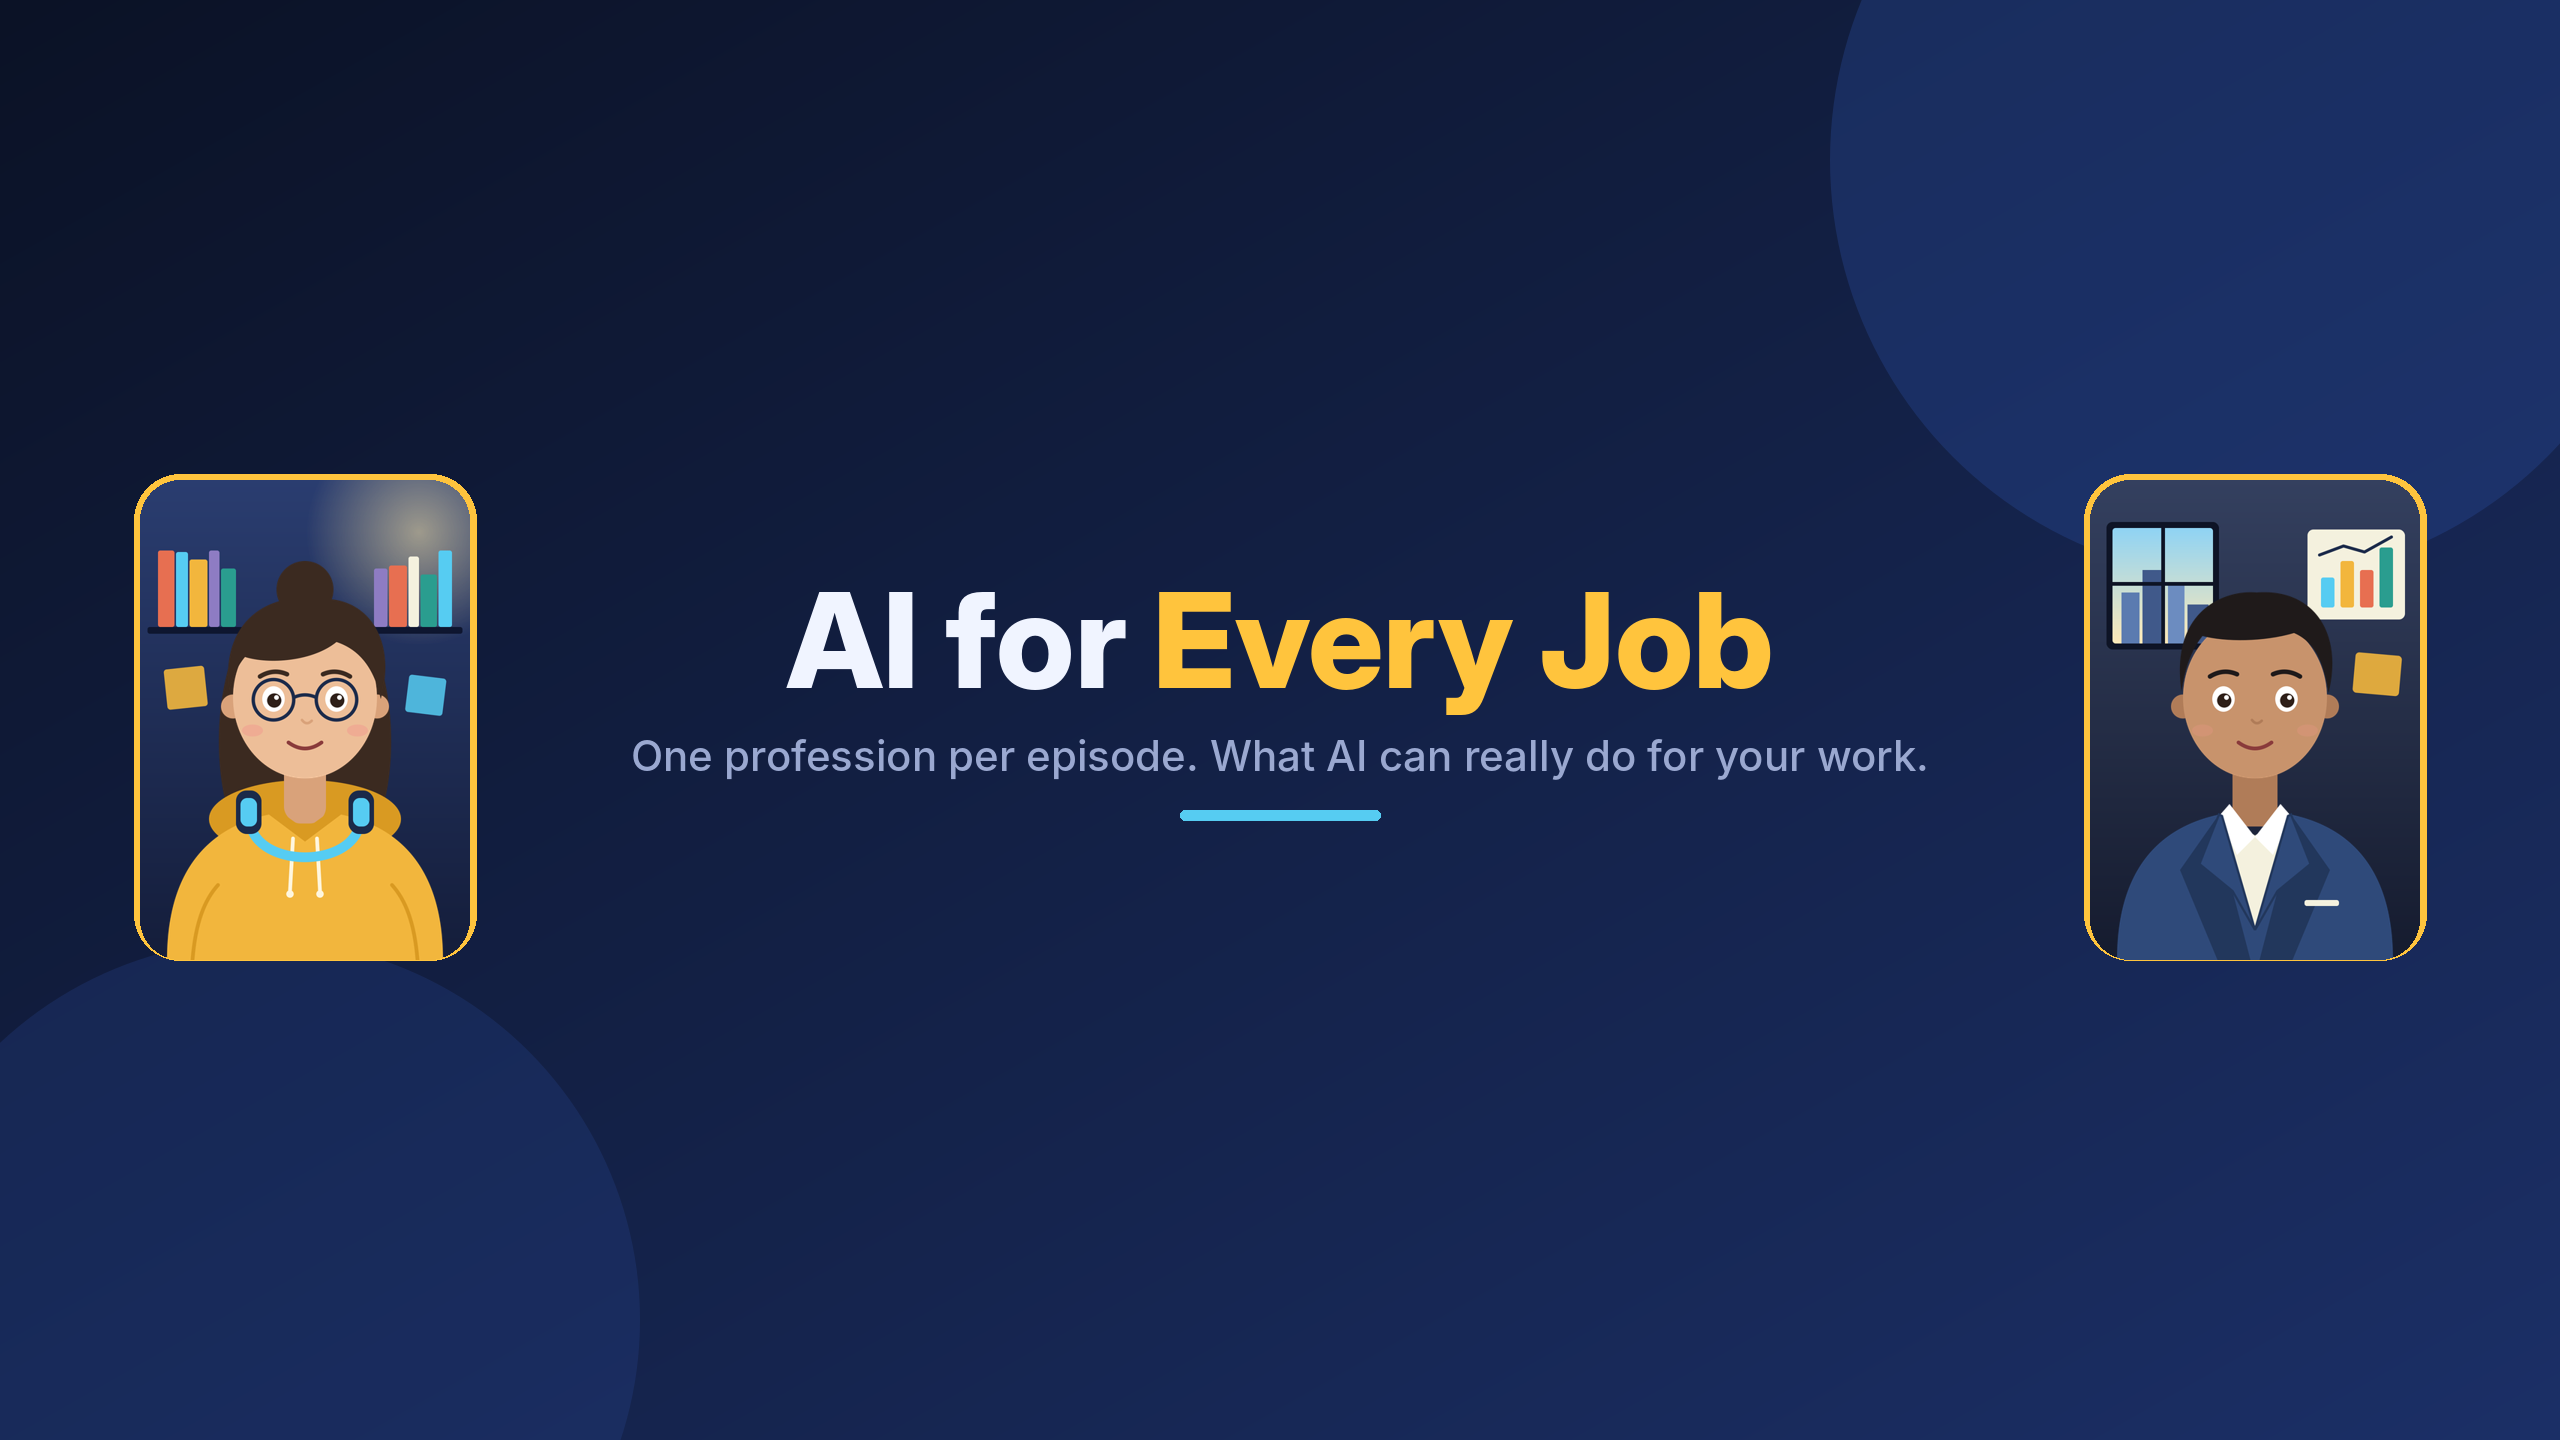
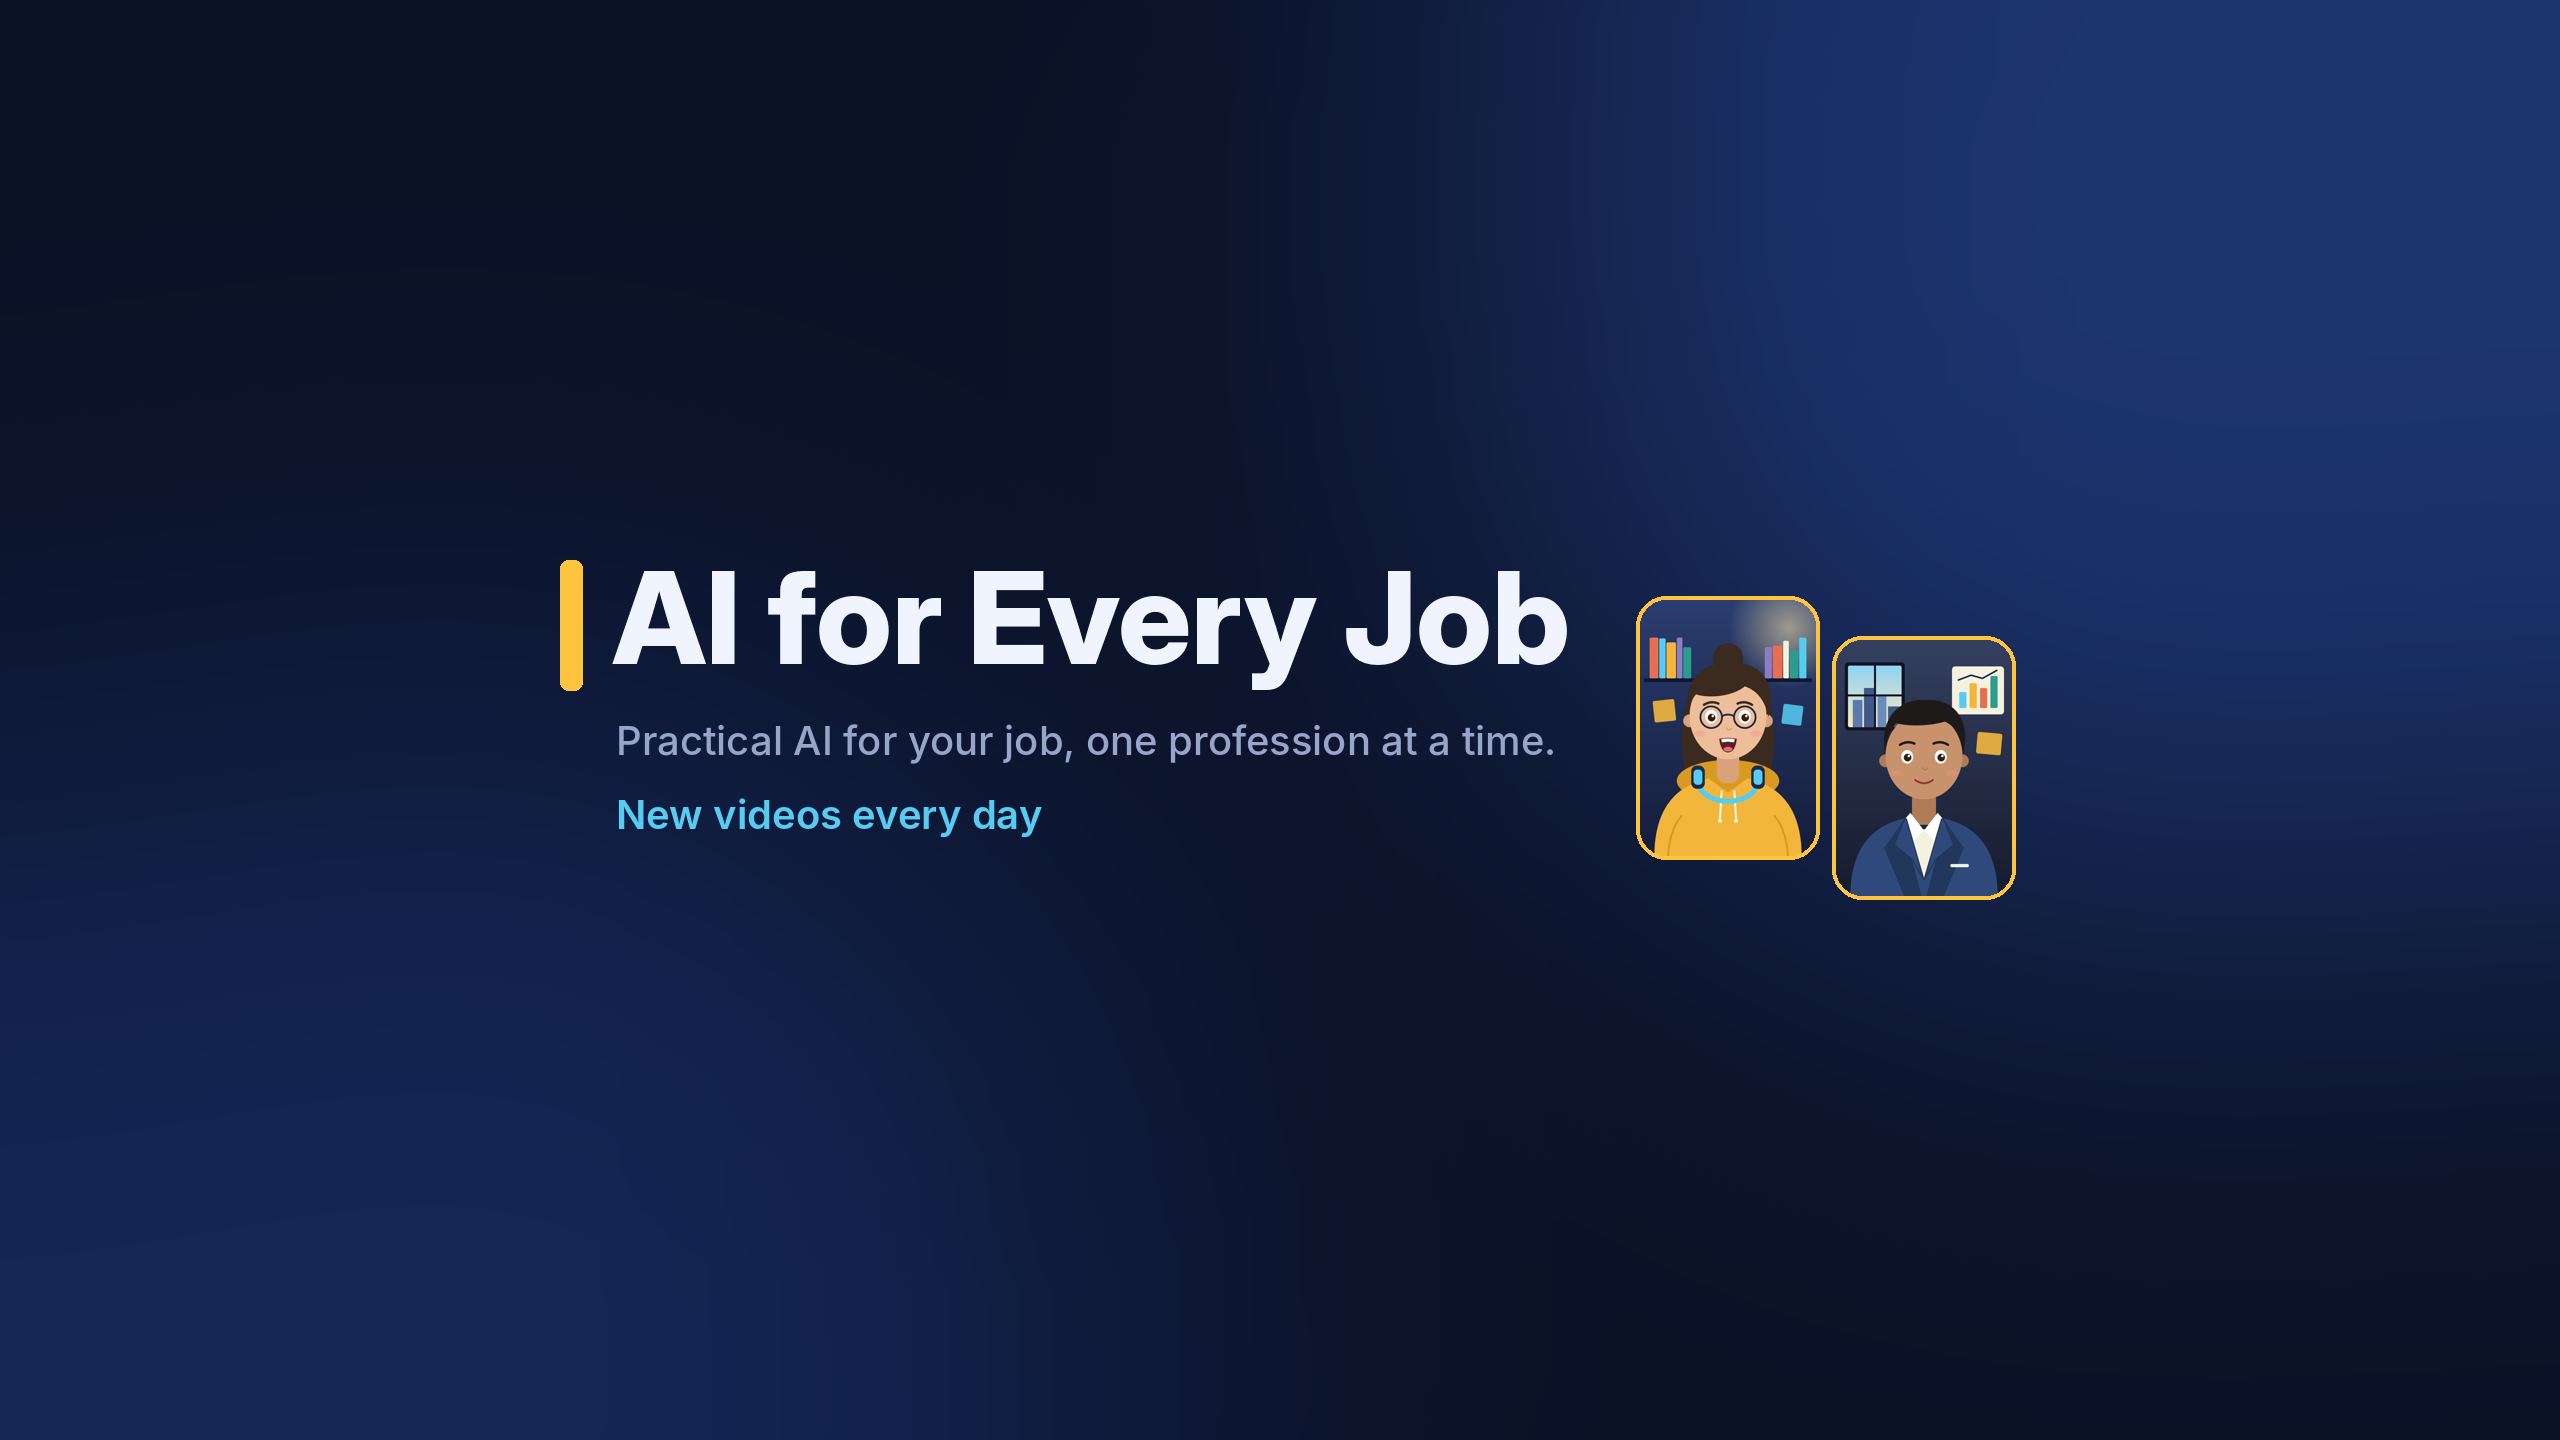
Add channel branding; switch runbook to continuous hourly production with queue claiming
Claude-Session: https://claude.ai/code/session_01NgwzyYEjavnvdf3Qpu6fKy

diff --git a/branding/make_branding.py b/branding/make_branding.py
@@ -1,0 +1,37 @@
+"""Draws the channel profile photo (800x800) and banner (2560x1440, YouTube safe area 1546x423 centred)."""
+import sys, os
+sys.path.insert(0, os.path.join(os.path.dirname(os.path.abspath(__file__)), "..", "pipeline"))
+from PIL import Image, ImageDraw, ImageFont, ImageFilter
+from character import Presenter, PRESENTERS
+import numpy as np
+OUT = os.path.dirname(os.path.abspath(__file__))
+F = "/usr/share/fonts/opentype/inter/"
+def font(n, s): return ImageFont.truetype(F + n + ".otf", s)
+BG = (11, 18, 38); INK = (240, 244, 255); ACC = (255, 196, 61); ACC2 = (86, 204, 242); MUTED = (150, 165, 200)
+def glow(w, h, spots):
+    g = Image.new("RGB", (w, h), BG); d = ImageDraw.Draw(g)
+    for box, col in spots: d.ellipse(box, fill=col)
+    return g.filter(ImageFilter.GaussianBlur(min(w, h) // 6))
+
+S = 800; im = glow(S, S, [((350, -250, 1100, 500), (30, 56, 120)), ((-300, 450, 400, 1150), (22, 40, 90))]); d = ImageDraw.Draw(im)
+f = font("InterDisplay-ExtraBold", 380); tw = d.textlength("AI", font=f)
+d.text(((S - tw) / 2 + 20, 150), "AI", font=f, fill=INK)
+d.rounded_rectangle(((S - tw) / 2 - 40, 205, (S - tw) / 2 - 2, 505), 14, fill=ACC)
+f2 = font("InterDisplay-Bold", 62); t = "FOR EVERY JOB"; d.text(((S - d.textlength(t, font=f2)) / 2, 560), t, font=f2, fill=ACC)
+im.save(OUT + "/profile.png")
+
+W, H = 2560, 1440
+b = glow(W, H, [((1500, -300, 2900, 900), (28, 52, 112)), ((-200, 700, 1100, 1800), (20, 38, 86))]); d = ImageDraw.Draw(b)
+x0 = 560
+d.rounded_rectangle((x0, 560, x0 + 22, 690), 8, fill=ACC)
+d.text((x0 + 52, 540), "AI for Every Job", font=font("InterDisplay-ExtraBold", 128), fill=INK)
+d.text((x0 + 56, 716), "Practical AI for your job, one profession at a time.", font=font("Inter-Medium", 40), fill=MUTED)
+d.text((x0 + 56, 790), "New videos every day", font=font("Inter-SemiBold", 40), fill=ACC2)
+px = 1640
+for i, k in enumerate(["student", "manager"]):
+    p = Presenter(PRESENTERS[k]); fr = Image.fromarray(p.frame(2 if i == 0 else 0, 0, 0).astype(np.uint8)).resize((176, 256))
+    m = Image.new("L", fr.size, 0); ImageDraw.Draw(m).rounded_rectangle((0, 0, 175, 255), 26, fill=255)
+    bx = px + i * 196; by = 600 if i == 0 else 640
+    d.rounded_rectangle((bx - 4, by - 4, bx + 179, by + 259), 30, fill=ACC)
+    b.paste(fr, (bx, by), m)
+b.save(OUT + "/banner.png")

diff --git a/RUNBOOK.md b/RUNBOOK.md
@@ -2,7 +2,7 @@
 
 Channel: https://www.youtube.com/@AIForEveryJob (Studio channel id `UCm6lpFy3y5xQXUUItmwjMXg`).
 The owner has asked for this to run fully on its own: do not ask him to review, approve or upload anything.
-Publish at most one video per run. Never publish anything that failed fact-checking or looks broken.
+The owner wants continuous production: runs fire every hour, and each run produces and publishes one video. Never publish anything that failed fact-checking or looks broken.
 
 ## 0. Setup (fresh workspace every run)
 
@@ -15,9 +15,12 @@ curl -sSL -o voices-v1.0.bin https://github.com/thewh1teagle/kokoro-onnx/release
 ```
 Fonts: Inter must exist at `/usr/share/fonts/opentype/inter/`; check with `fc-list | grep -i inter`.
 
-## 1. Pick the episode
+## 1. Pick the episode (runs can overlap, so claim first)
 
-Read `queue.json`. If an item has status `rendered`, skip to step 6 and publish it. Otherwise take the first `todo` item and produce it (steps 2 to 5).
+Read `queue.json`. Runs start hourly and a run can take longer than an hour, so:
+- If an item has status `rendered`, publish it first (step 6), then continue to produce the next one in the same run.
+- To produce, take the first `todo` item, or an `in_progress` item whose `claimed_at` is more than 3 hours old. Set it to `in_progress` with `claimed_at` (UTC ISO time), then commit and push straight away. If the push is rejected because another run pushed first, run `git pull --rebase`, re-read the queue and pick again.
+- If no `todo` items are left, append 10 new professions to the queue, each with a `note` where the topic needs limits. Pick widely useful jobs not yet covered, such as pilots, farmers, police officers, social workers, translators, photographers, video editors, data analysts, product managers, project managers, consultants, event planners, fitness trainers, psychologists, veterinarians, engineers, scientists, librarians, retail workers, logistics and drivers. Mix in some cross-cutting episodes too, for example "AI for Your Job Interview" or "AI for Learning a New Language at Work".
 
 ## 2. Research and script (subagent: researcher and scriptwriter)
 
@@ -79,6 +82,10 @@ d.querySelector('tp-yt-paper-radio-button[name="VIDEO_MADE_FOR_KIDS_NOT_MFK"]').
 4. DESC: two-sentence summary; a `Chapters` list with real timestamps (cumulative scene durations from `build.py plan` or the `rendered` log lines, first one `0:00`); the tools mentioned; the channel line; this disclosure line: "Made with AI tools: the script was researched and written with AI assistance, and the narration and animated presenter are AI-generated."; and three hashtags.
 5. Click `#next-button` three times (about 1.8 seconds apart), then click `tp-yt-paper-radio-button[name="PUBLIC"]` and `#done-button`. Upload processing does not need to finish first.
 6. Verify in the Studio content list (`ytcp-video-row`, visibility cell says `Public`). Record `youtube_id` (from the `youtu.be` link in the dialog or the row link), the `published` date and `status: published` in `queue.json`; commit and push.
+
+## Pacing
+
+Publish whenever a video is ready. Never upload the same file twice: check `queue.json` and the Studio content list for the title first.
 
 ## Failure handling
 
